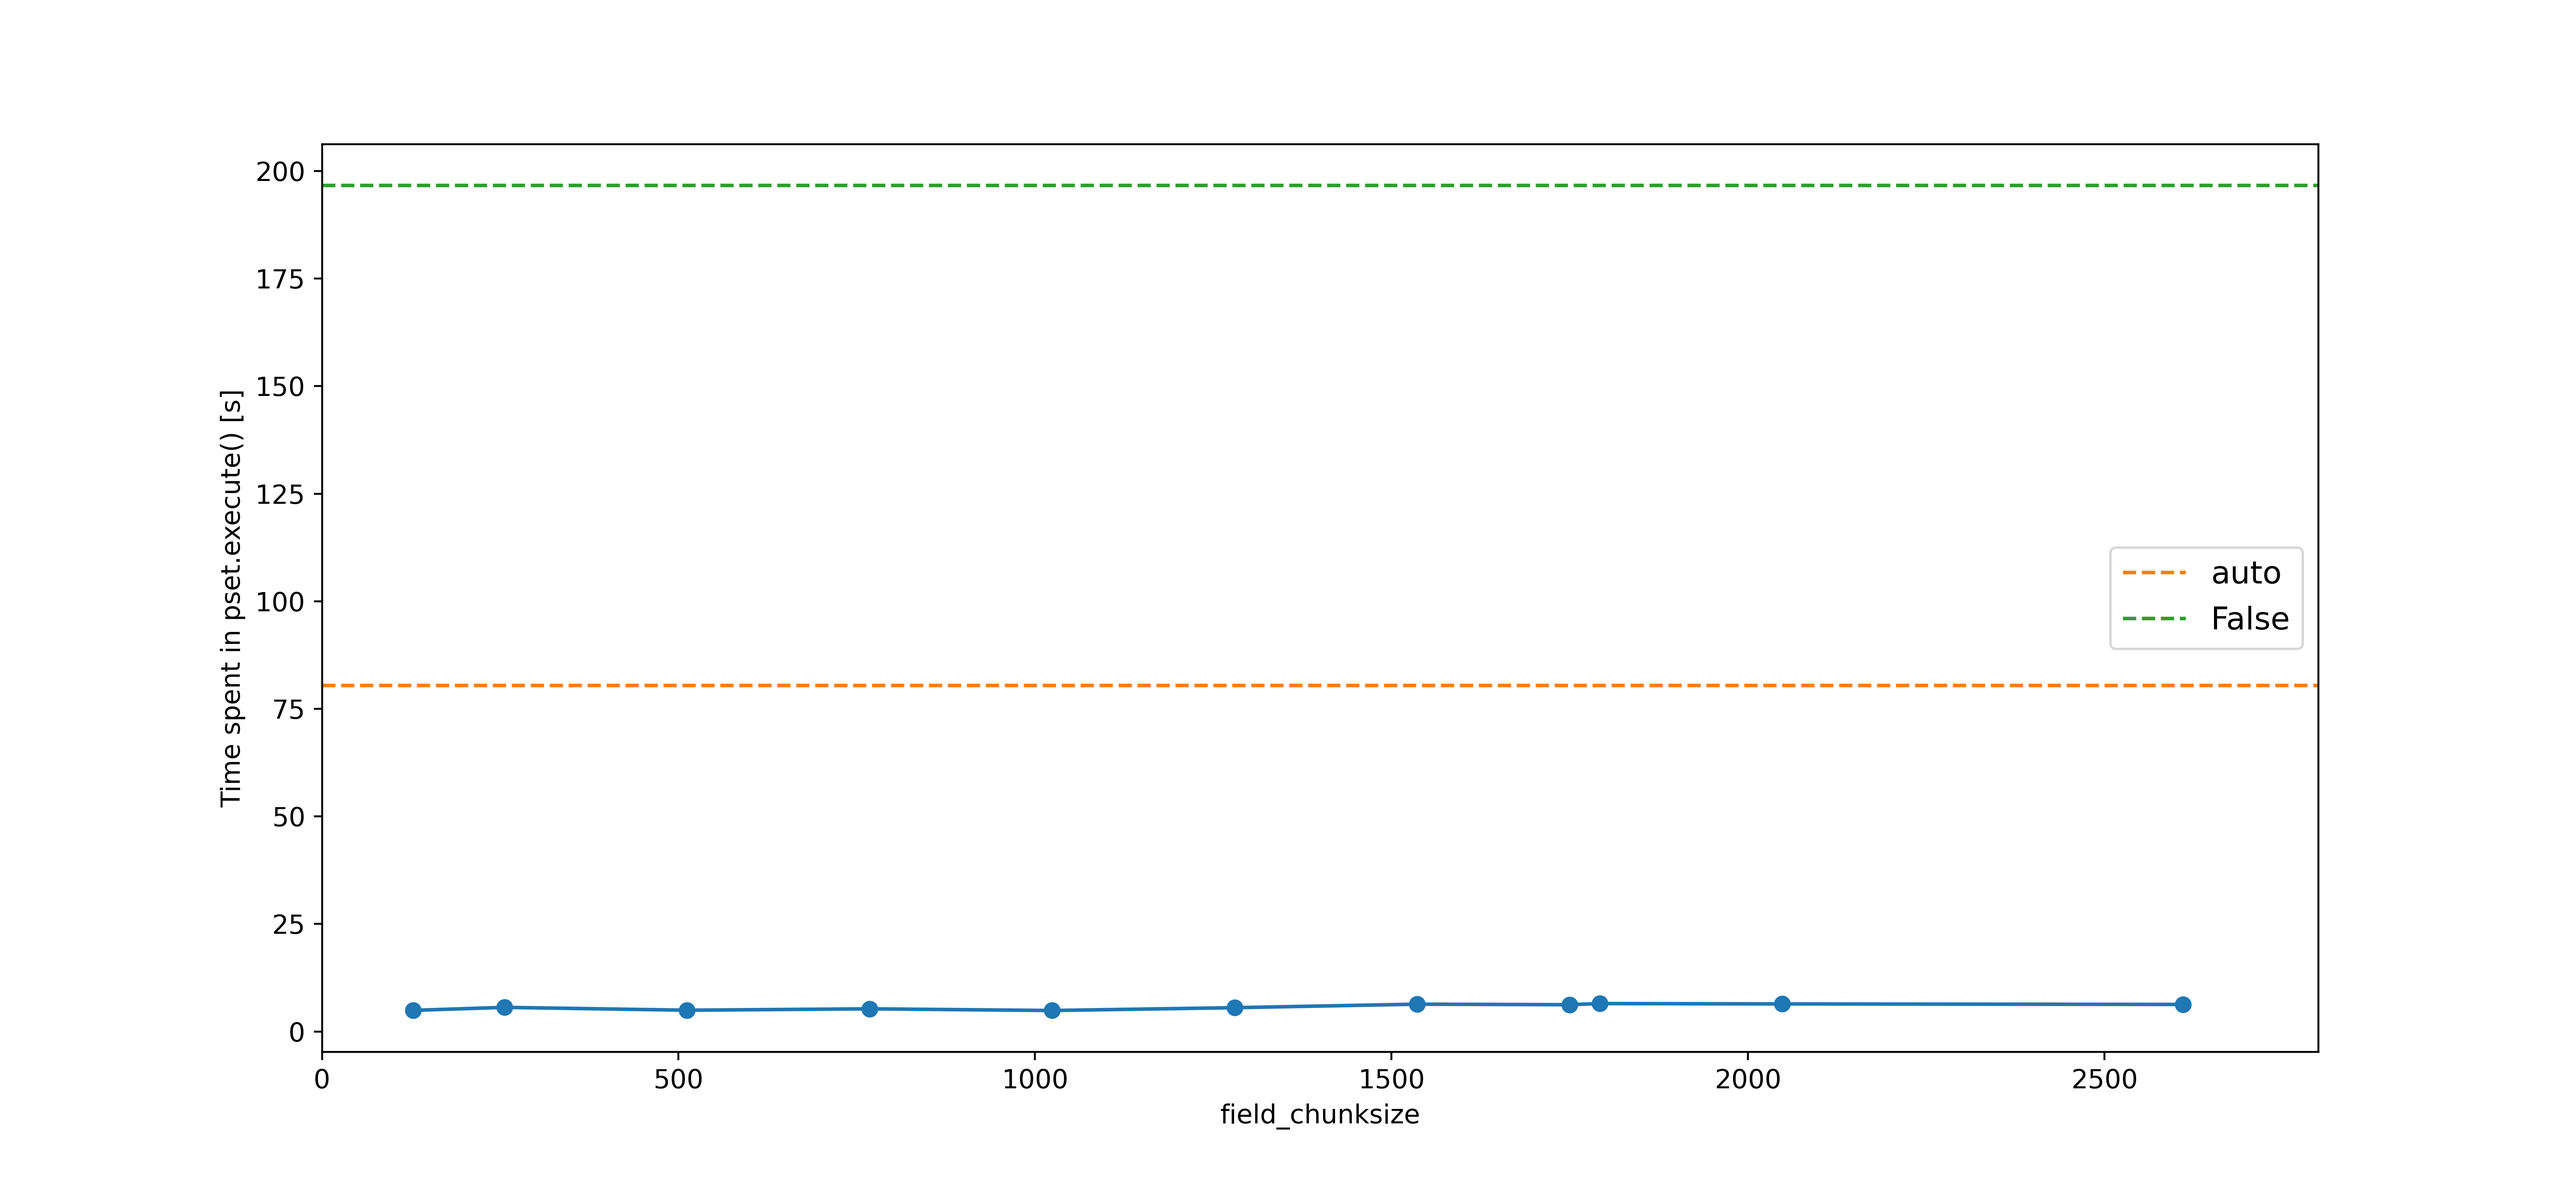
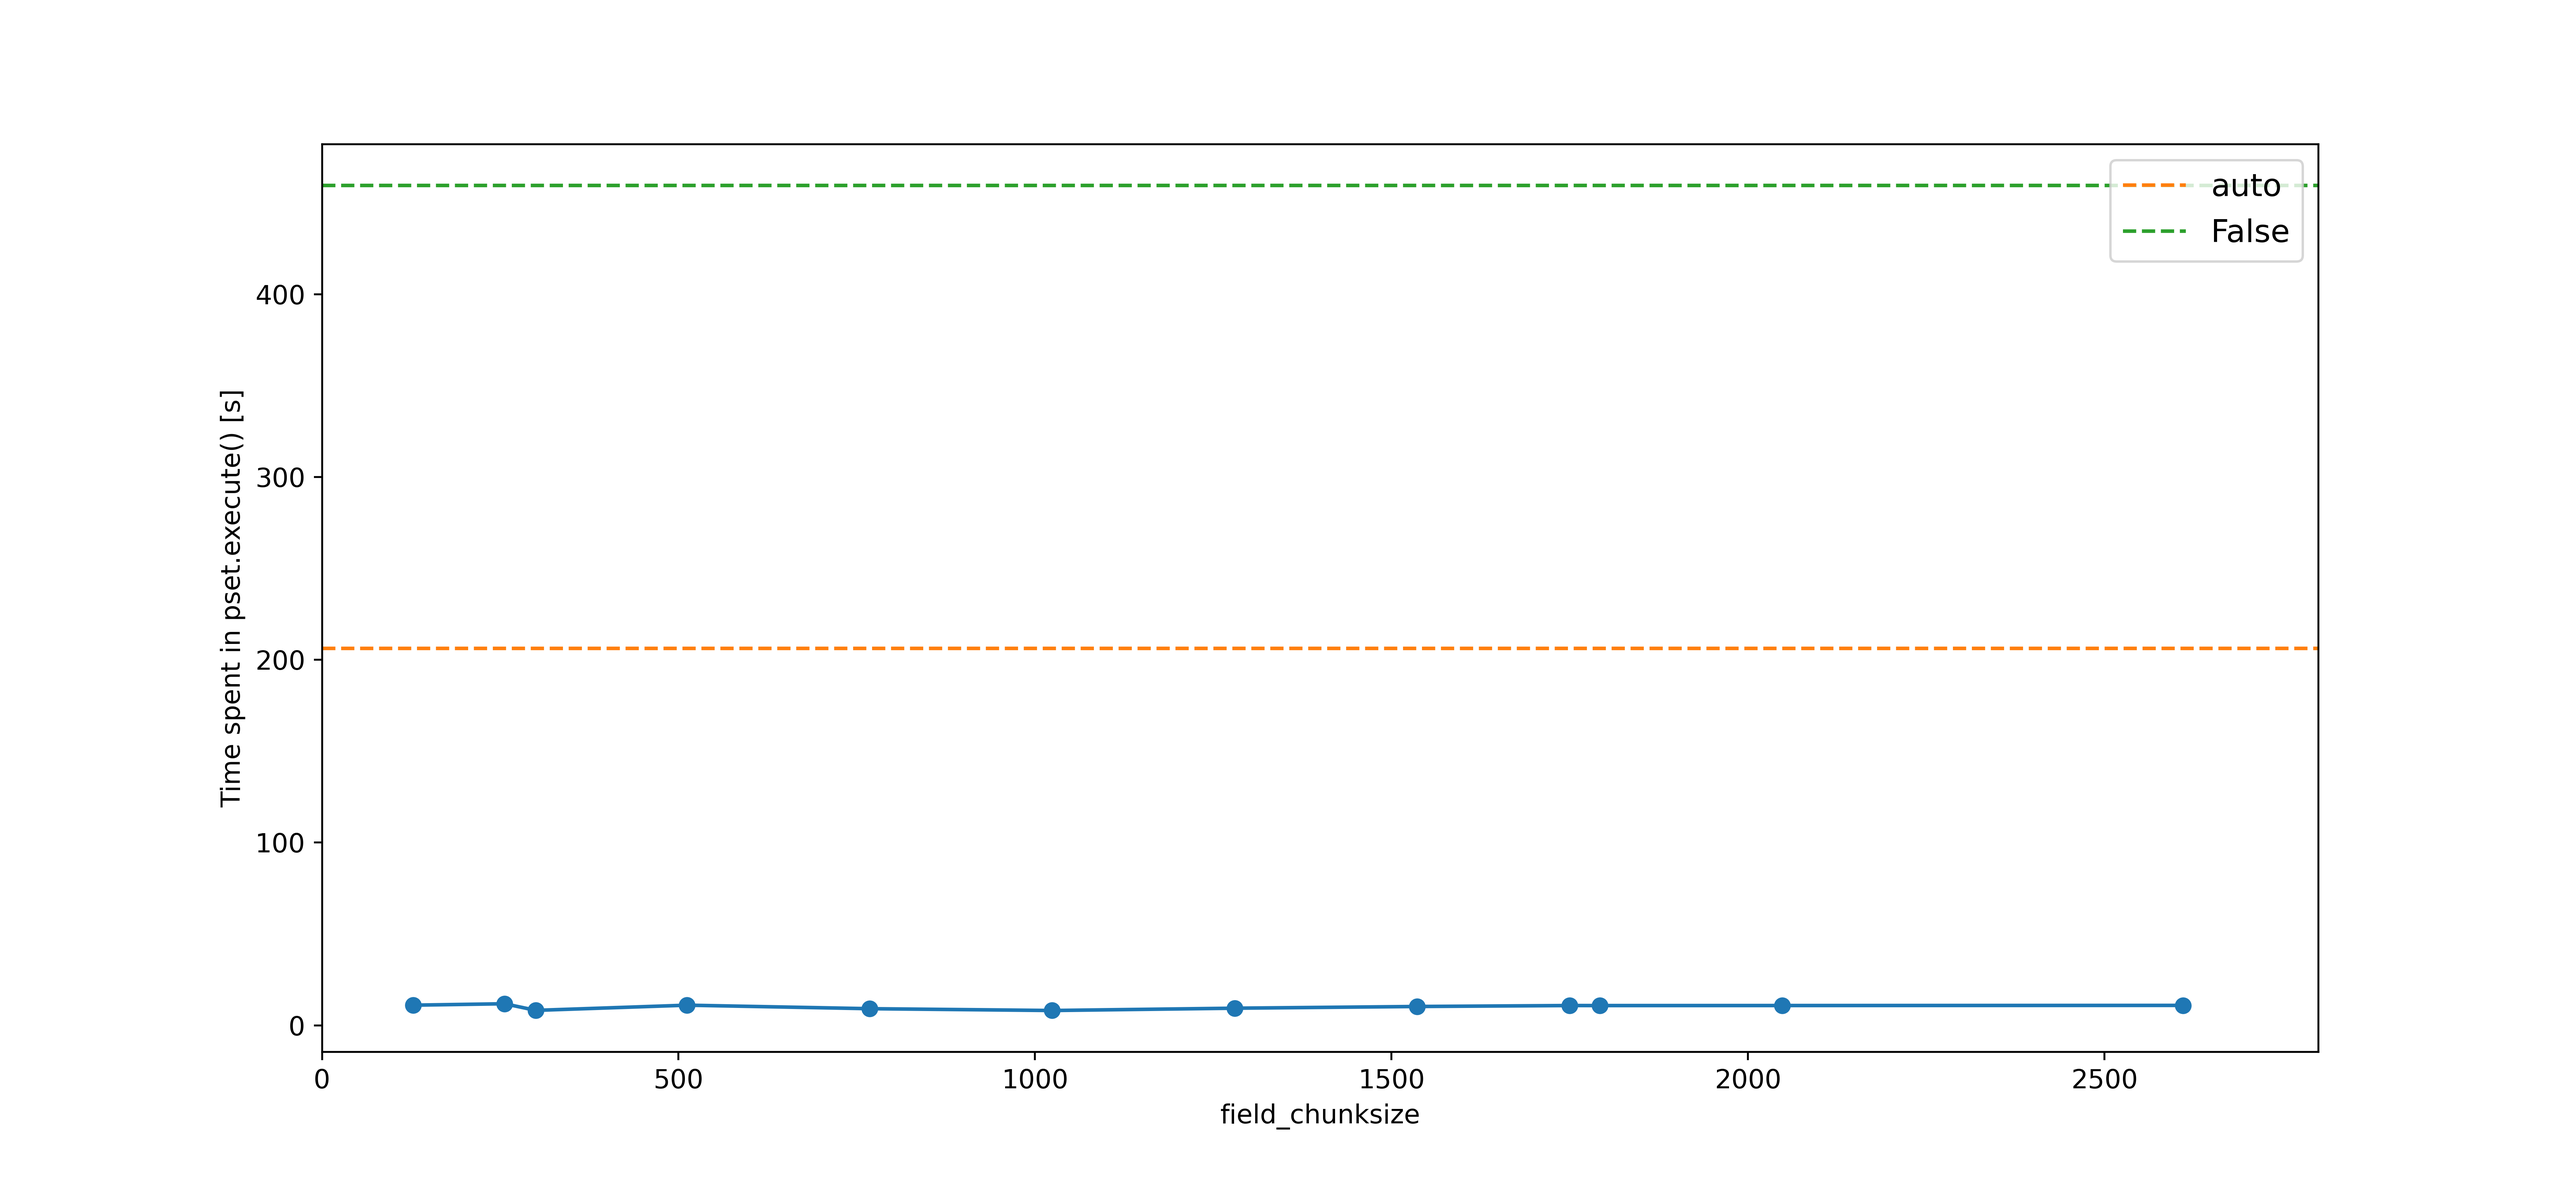
Changed fset depth to st_ocean and default dt

diff --git a/scripts/main.py b/scripts/main.py
@@ -96,12 +96,12 @@ def ofam_fieldset(date_bnds, field_method='b_grid', chunks='specific', cs=300,
             w.append(str(cfg.ofam/('ocean_w_{}_{:02d}.nc'.format(y, m))))
 
     variables = {'U': 'u', 'V': 'v', 'W': 'w'}
-    dimensions = {'time': 'Time', 'depth': 'sw_ocean',
+    dimensions = {'time': 'Time', 'depth': 'st_ocean',
                   'lat': 'yu_ocean', 'lon': 'xu_ocean'}
 
-    files = {'U': {'depth': w[0], 'lat': u[0], 'lon': u[0], 'data': u},
-             'V': {'depth': w[0], 'lat': u[0], 'lon': u[0], 'data': v},
-             'W': {'depth': w[0], 'lat': u[0], 'lon': u[0], 'data': w}}
+    files = {'U': {'depth': u[0], 'lat': u[0], 'lon': u[0], 'data': u},
+             'V': {'depth': u[0], 'lat': u[0], 'lon': u[0], 'data': v},
+             'W': {'depth': u[0], 'lat': u[0], 'lon': u[0], 'data': w}}
 
     if chunks == 'specific':
         chunks = {'Time': 1, 'st_ocean': 1, 'sw_ocean': 1,
@@ -131,6 +131,7 @@ def ofam_fieldset(date_bnds, field_method='b_grid', chunks='specific', cs=300,
 
     # Set fieldset minimum depth.
     fieldset.mindepth = fieldset.U.depth[0]
+    interp_method = 'linear_invdist_land_tracer'
 
     return fieldset
 
@@ -416,7 +417,7 @@ def plot3D(sim_id):
 
     """
     ds = xr.open_dataset(sim_id, decode_cf=True)
-    ds = ds.where(ds.u > 0, drop=True)
+    ds = ds.where(ds.u >= 0, drop=True)
     fig = plt.figure(figsize=(13, 10))
     ax = fig.add_subplot(111, projection='3d')
     colors = plt.cm.rainbow(np.linspace(0, 1, len(ds.traj)))
@@ -437,6 +438,23 @@ def plot3D(sim_id):
 
     return
 
+# dx=ds.sel(traj=1058)
+
+# fig = plt.figure(figsize=(13, 10))
+# ax = fig.add_subplot(111, projection='3d')
+# ax.scatter(dx.lon, dx.lat, dx.z, s=5, marker="o")
+# ax.set_xlabel("Longitude")
+# ax.set_ylabel("Latitude")
+# ax.set_zlabel("Depth [m]")
+# ax.set_zlim(np.max(z), np.min(z))
+
+# fig = plt.figure(figsize=(13, 10))
+# ax = fig.add_subplot(111)
+# ax.scatter(dx.lon, dx.lat, s=5, marker="o")
+# ax.set_xlabel("Longitude")
+# ax.set_ylabel("Latitude")
+# ax.set_zlabel("Depth [m]")
+# ax.set_zlim(np.max(z), np.min(z))
 
 ##############################################################################
 # VALIDATION

diff --git a/scripts/base.py b/scripts/base.py
@@ -29,7 +29,7 @@ logger = tools.mlogger('base', parcels=True)
 
 @timeit
 def run_EUC(dy=0.1, dz=25, lon=165, lat=2.6, year=2012, month=12, day='max',
-            dt_mins=240, repeatdt_days=6, outputdt_days=1, runtime_days=240, ifile=0,
+            dt_mins=60, repeatdt_days=6, outputdt_days=1, runtime_days=185, ifile=0,
             field_method='b_grid', chunks='specific', partition=None,
             pfile=None, parallel=False):
     """Run Lagrangian EUC particle experiment."""
@@ -44,8 +44,8 @@ def run_EUC(dy=0.1, dz=25, lon=165, lat=2.6, year=2012, month=12, day='max',
     Z, Y, X = len(p_depths), len(p_lats), len(p_lons)
 
     # Make sure run ends on a repeat day, otherwise increase until it does.
-    while runtime_days % repeatdt_days != 0:
-        runtime_days += 1
+    # while runtime_days % repeatdt_days != 0:
+    #     runtime_days += 1
     runtime = timedelta(days=int(runtime_days))
 
     # Start and end dates.
@@ -78,9 +78,9 @@ def run_EUC(dy=0.1, dz=25, lon=165, lat=2.6, year=2012, month=12, day='max',
                 .format(sim_id.stem, *p_lons, Y, *p_lats[::Y-1], dy, Z, *p_depths[::Z-1], dz))
     logger.info('{}:Repeat={} days: Timestep={:.0f} mins: Output={:.0f} days'
                 .format(sim_id.stem, repeatdt.days, 1440 - dt.seconds/60, outputdt.days))
-    logger.info('{}:Field={}: Chunks={} 1750/300: Range={}-{}: Periodic={} days: Partitions={}'
+    logger.info('{}:Field={}: Chunks={}300: Range={}-{}: Periodic={} days: invdist interp'
                 .format(sim_id.stem, field_method, chunks, ft_bnds[0].year, ft_bnds[1].year,
-                        time_periodic.days, partition))
+                        time_periodic.days))
 
     # Create fieldset.
     fieldset = main.ofam_fieldset(ft_bnds, chunks=chunks, field_method=field_method,

diff --git a/scripts/mpi_ncpu.py b/scripts/mpi_ncpu.py
@@ -12,6 +12,14 @@ from sklearn.cluster import KMeans
 # Lat and lon of particles (whatever goes into your ParticleSet).
 # Doesn't matter if repeatdt is not None, only the pset size at the start counts.
 
+mpi_size = 3
+lat = np.arange(9)
+lon = np.arange(120, 129)
+coords = np.vstack((lon, lat)).transpose()
+kmeans = KMeans(n_clusters=mpi_size, random_state=0).fit(coords)
+partitions = kmeans.labels_
+
+
 p_lats = np.round(np.arange(-2.6, 2.6 + 0.05, 0.1), 2)
 p_depths = np.arange(25, 350 + 20, 25)
 p_lons = np.array([165])
@@ -58,3 +66,12 @@ print('CPUs={}, Particles={}'.format(mpi_size, lon.size))
 for mpi_rank in range(mpi_size):
     lonx = lon[partitions == mpi_rank]
     print(mpi_rank, lonx.size, 'error')
+
+
+mpi_size = 24
+p0 = np.zeros(42, dtype=int)
+p1 = np.ones(42, dtype=int)
+p2 = np.arange(2, 22, dtype=int)
+p3 = np.ones(42, dtype=int)*22
+p4 = np.ones(56, dtype=int)*23
+partitions = np.append(np.repeat(p, 28),  np.ones(28, dtype=int)*(mpi_size-1))

diff --git a/scripts/test_dask_chunking_EUC.py b/scripts/test_dask_chunking_EUC.py
@@ -90,8 +90,7 @@ for cs in chunksize:
                        lon=[fieldset.U.lon[800]], lat=[fieldset.U.lat[151]],
                        depth=[fieldset.U.depth[16]], time=[fieldset.U.grid.time[0]])
     tic = time.time()
-    pset.execute(pset.Kernel(AdvectionRK4_3D), dt=delta(hours=1),
-                 runtime=delta(days=6))
+    pset.execute(pset.Kernel(AdvectionRK4_3D), dt=delta(hours=1), runtime=delta(days=6))
     func_time.append(time.time()-tic)
     process = psutil.Process(os.getpid())
     mem_B_used = process.memory_info().rss
